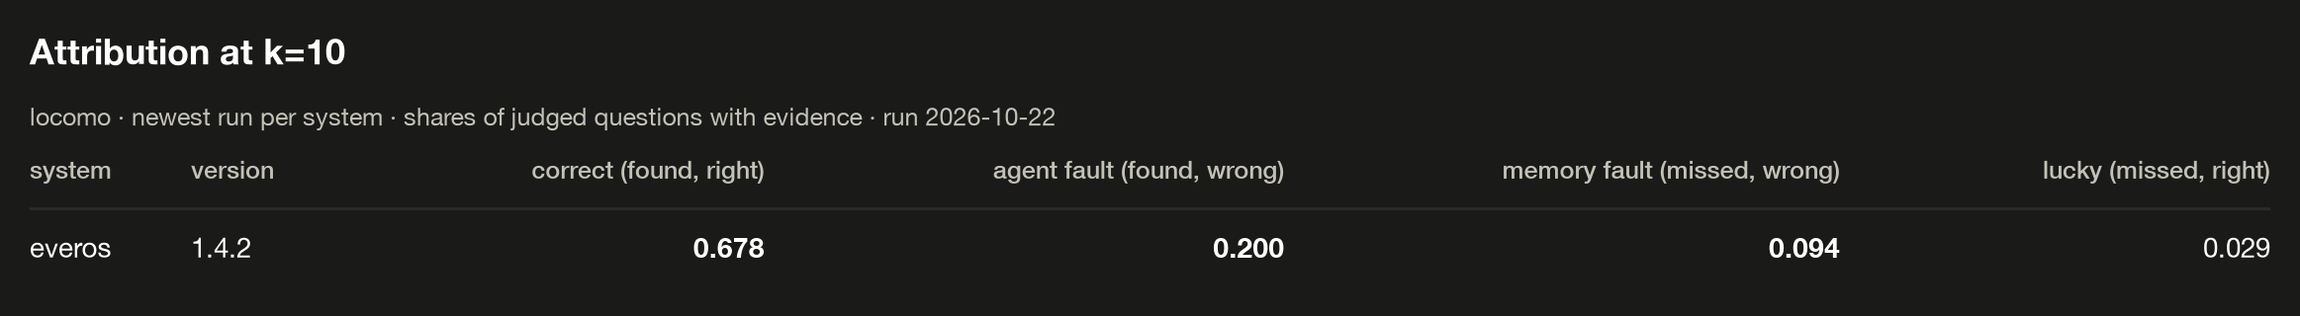
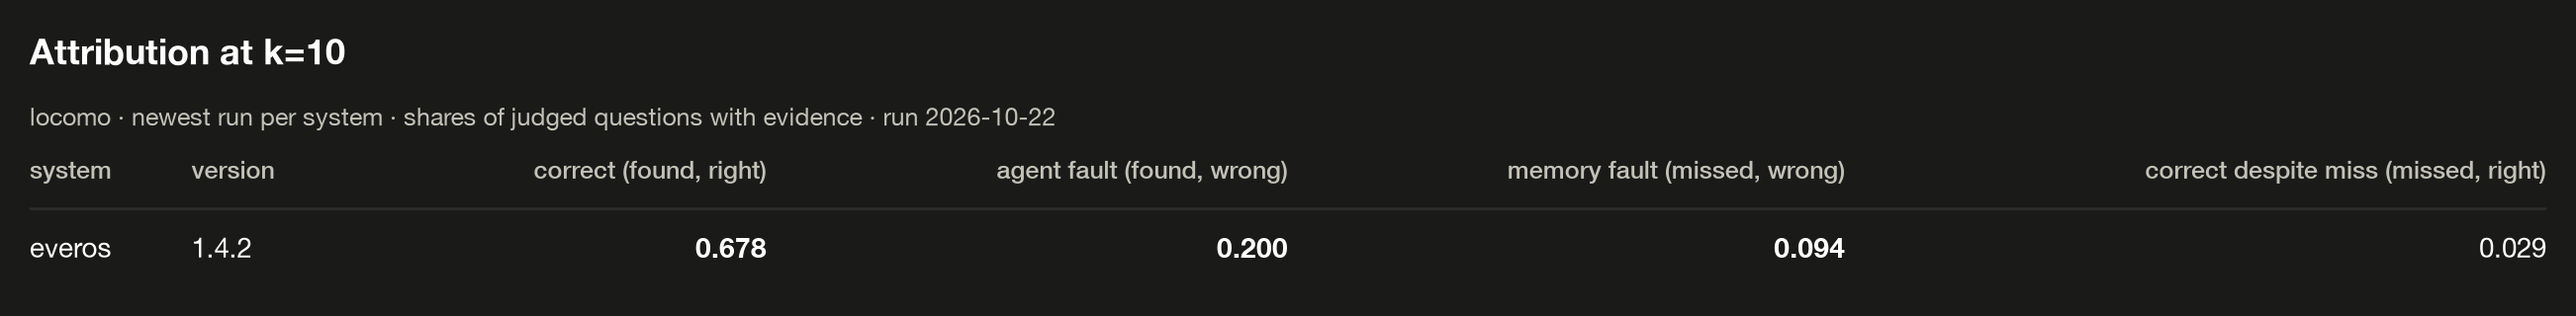
feat!: rename the lucky attribution cell to correct_despite_miss
A right answer after a miss can be the model's own knowledge, partial
evidence or inference, not luck; the name now states only what is
observed. Existing runs re-scored, plots and RESULTS.md regenerated.

BREAKING CHANGE: attribution.lucky is now attribution.correct_despite_miss.

diff --git a/src/amb/metrics.py b/src/amb/metrics.py
@@ -149,7 +149,7 @@ class Attribution(Metric):
     Each judged question with evidence labels lands in one of four cells,
     crossing "every evidence session retrieved" with the judge's verdict:
     `correct`, `agent_fault` (found, wrong), `memory_fault` (missed, wrong)
-    and `lucky` (missed, right). Two rates factor them: `found` is the
+    and `correct_despite_miss` (missed, right). Two rates factor them: `found` is the
     memory's, `correct_when_found` the agent's — flat across systems unless
     a memory hands back evidence in a form the agent cannot use. Questions
     without evidence labels or a verdict are left out, never scored as misses.
@@ -159,7 +159,7 @@ class Attribution(Metric):
         "correct",
         "agent_fault",
         "memory_fault",
-        "lucky",
+        "correct_despite_miss",
     )
 
     def __init__(self, name: str = "attribution") -> None:
@@ -183,7 +183,7 @@ class Attribution(Metric):
         if found:
             self._cells["correct" if correct else "agent_fault"] += 1
         else:
-            self._cells["lucky" if correct else "memory_fault"] += 1
+            self._cells["correct_despite_miss" if correct else "memory_fault"] += 1
 
     def result(self) -> dict[str, float | int]:
         """Return each cell's share, each branch's rate and its split, and `n`."""
@@ -193,7 +193,7 @@ class Attribution(Metric):
         missed = n - found
         shares = {cell: (c[cell] / n if n else 0.0) for cell in self.CELLS}
         correct_when_found = c["correct"] / found if found else 0.0
-        correct_when_missed = c["lucky"] / missed if missed else 0.0
+        correct_when_missed = c["correct_despite_miss"] / missed if missed else 0.0
         return {
             **shares,
             "found": found / n if n else 0.0,

diff --git a/tests/reporting_test.py b/tests/reporting_test.py
@@ -225,7 +225,7 @@ def _attributed(system: str, k: int, found: float, when_found: float) -> dict:
             "correct": found * when_found,
             "agent_fault": found * (1 - when_found),
             "memory_fault": 1 - found,
-            "lucky": 0.0,
+            "correct_despite_miss": 0.0,
             "found": found,
             "missed": 1 - found,
             "correct_when_found": when_found,
@@ -391,9 +391,9 @@ def test_attribution_cells_table_bolds_the_best_per_column():
         "correct (found, right)",
         "agent fault (found, wrong)",
         "memory fault (missed, wrong)",
-        "lucky (missed, right)",
+        "correct despite miss (missed, right)",
     ]
-    # most correct first; correct is best high, both faults best low, lucky never bold
+    # most correct first; correct is best high, both faults best low, despite-miss never
     assert rows[0] == ["alpha", "1.0", "**0.540**", "**0.060**", "0.400", "0.000"]
     assert rows[1] == ["beta", "1.0", "0.400", "0.400", "**0.200**", "0.000"]
     assert report.attribution_cells_table(5) == ([], [])

diff --git a/src/amb/reporting/run.py b/src/amb/reporting/run.py
@@ -49,13 +49,13 @@ ATTRIBUTION_BRANCHES = {
     "missed": ("missed", "correct_when_missed", "without evidence"),
 }
 
-# the attribution table's cells: (cell, column label, which way is best); lucky
-# is right without the evidence, no credit to the memory, so it is never bold
+# the attribution table's cells: (cell, column label, which way is best); a
+# right answer despite a miss is no credit to the memory, so it is never bold
 ATTRIBUTION_COLUMNS = (
     ("correct", "correct (found, right)", max),
     ("agent_fault", "agent fault (found, wrong)", min),
     ("memory_fault", "memory fault (missed, wrong)", min),
-    ("lucky", "lucky (missed, right)", None),
+    ("correct_despite_miss", "correct despite miss (missed, right)", None),
 )
 
 

diff --git a/tests/metrics_test.py b/tests/metrics_test.py
@@ -319,7 +319,7 @@ def test_attribution_cells_hand_computed() -> None:
     assert result["n"] == 8
     assert result["correct"] == pytest.approx(3 / 8)
     assert result["agent_fault"] == pytest.approx(1 / 8)
-    assert result["lucky"] == pytest.approx(1 / 8)
+    assert result["correct_despite_miss"] == pytest.approx(1 / 8)
     assert result["memory_fault"] == pytest.approx(3 / 8)
     assert result["found"] == pytest.approx(0.5)
     assert result["missed"] == pytest.approx(0.5)

diff --git a/METHODOLOGY.md b/METHODOLOGY.md
@@ -30,7 +30,7 @@ So compare systems at matched hits/q, not matched k. Accuracy can rise with ever
 
 ### Error attribution
 
-Who lost a question: the memory or the agent? `attribution` crosses "every evidence session retrieved" with the judge's verdict, so each judged, evidence-labelled question falls in one of four cells, reported as shares of `n`: `correct`, `agent_fault` (found, wrong), `memory_fault` (missed, wrong) and `lucky` (missed, right). Each branch also reports its rate and its split: `found` with `correct_when_found` (the agent's own rate) and `missed` with `correct_when_missed` (the agent's prior). Found is strict — half a multi-hop chain is a miss — and questions without evidence labels are left out rather than counted as misses. RESULTS.md prints this as two mirrored error-analysis tables per k, one per branch; it is also broken down by question category.
+Who lost a question: the memory or the agent? `attribution` crosses "every evidence session retrieved" with the judge's verdict, so each judged, evidence-labelled question falls in one of four cells, reported as shares of `n`: `correct`, `agent_fault` (found, wrong), `memory_fault` (missed, wrong) and `correct_despite_miss` (missed, right) — the model's own knowledge, partial evidence or inference, which the data cannot tell apart. Each branch also reports its rate and its split: `found` with `correct_when_found` (the agent's own rate) and `missed` with `correct_when_missed` (the agent's prior). Found is strict — half a multi-hop chain is a miss — and questions without evidence labels are left out rather than counted as misses. RESULTS.md prints this as two mirrored error-analysis tables per k, one per branch; it is also broken down by question category.
 
 The two rates collapse into one number, `memory_lift` = `found × (correct_when_found − correct_when_missed)`: the accuracy points the memory added over what the agent answers without the evidence. It credits a memory only for evidence it both found and returned in a usable form. The summary table carries it beside accuracy, RESULTS.md prints its factors per k, and the README breaks it down by question category. The rate without evidence is estimated from each system's own misses, not measured against a memoryless run.
 

diff --git a/RESULTS.md b/RESULTS.md
@@ -2,7 +2,7 @@
 
 Generated by `amb report` from the runs saved under [`runs/`](runs/) — every table, chart, and line of this file. Edits here are overwritten on the next run; change the report definition in `src/amb/reporting/report.py` instead.
 
-Results from commit `36d1b6d`, run 2026-10-23.
+Results from commit `5ec5e16`, run 2026-10-23.
 
 ## Every run
 
